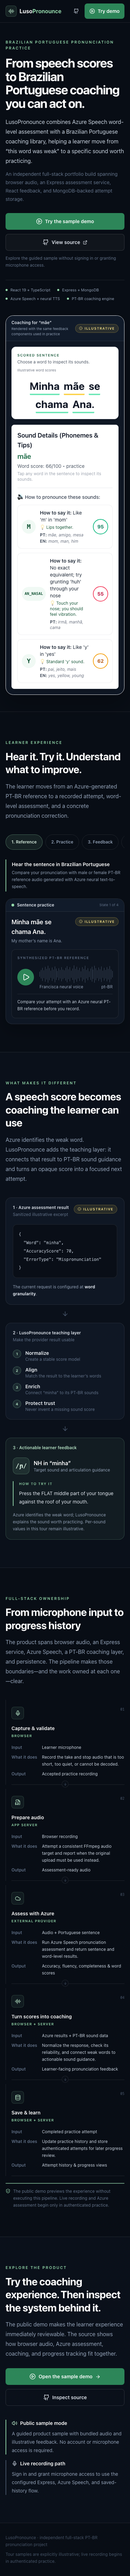
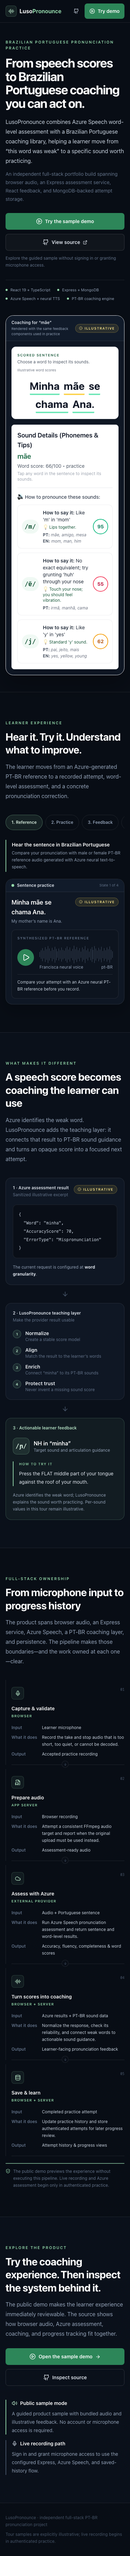
fix(feedback): show learner-facing IPA labels

Changed region(s): [[0.0293, 0.0, 0.9387, 0.9666]]

diff --git a/src/components/pronunciation/shared/PhonemePanel.tsx b/src/components/pronunciation/shared/PhonemePanel.tsx
@@ -1,5 +1,5 @@
 import type { NormalizedWordFeedback } from './types';
-import { getPhonemeById } from '@/lib/phonemeMetadata';
+import { getPhonemeById, getPhonemeDisplayLabel } from '@/lib/phonemeMetadata';
 import { findHomograph } from '@/lib/homographs';
 import type { TrustLevel } from '@/lib/assessmentTrust';
 
@@ -147,6 +147,7 @@ export default function PhonemePanel({ word, onClose, trustLevel = 'trusted' }: 
           <div className="space-y-3">
             {word.phonemes.map((phoneme, index) => {
               const metadata = getPhonemeById(phoneme.symbol);
+              const displayLabel = getPhonemeDisplayLabel(phoneme.symbol);
               
               if (metadata) {
                 const desc = metadata.englishApprox || metadata.articulation || '';
@@ -160,8 +161,8 @@ export default function PhonemePanel({ word, onClose, trustLevel = 'trusted' }: 
                     className="bg-white dark:bg-gray-800 rounded-xl p-3 sm:p-4 border border-gray-200/70 dark:border-gray-700 flex items-center gap-3 sm:gap-4"
                   >
                     <div className="shrink-0 min-w-10 h-10 sm:min-w-12 sm:h-12 px-2 rounded-full bg-primary-50 dark:bg-primary-900/30 flex items-center justify-center">
-                      <span className={`font-bold text-primary-700 dark:text-primary-300 font-mono whitespace-nowrap ${phoneme.symbol.length > 3 ? 'text-[11px] sm:text-xs' : 'text-lg'}`}>
-                        {phoneme.symbol}
+                      <span className={`font-bold text-primary-700 dark:text-primary-300 font-mono whitespace-nowrap ${displayLabel.length > 4 ? 'text-[11px] sm:text-xs' : 'text-lg'}`}>
+                        {displayLabel}
                       </span>
                     </div>
                     <div className="flex-1 min-w-0">
@@ -196,8 +197,8 @@ export default function PhonemePanel({ word, onClose, trustLevel = 'trusted' }: 
                     className="bg-white dark:bg-gray-800 rounded-xl p-3 sm:p-4 border border-gray-200/70 dark:border-gray-700 flex items-center gap-3 sm:gap-4"
                   >
                     <div className="shrink-0 min-w-10 h-10 sm:min-w-12 sm:h-12 px-2 rounded-full bg-primary-50 dark:bg-primary-900/30 flex items-center justify-center">
-                      <span className={`font-bold text-primary-700 dark:text-primary-300 font-mono whitespace-nowrap ${phoneme.symbol.length > 3 ? 'text-[11px] sm:text-xs' : 'text-lg'}`}>
-                        {phoneme.symbol}
+                      <span className={`font-bold text-primary-700 dark:text-primary-300 font-mono whitespace-nowrap ${displayLabel.length > 4 ? 'text-[11px] sm:text-xs' : 'text-lg'}`}>
+                        {displayLabel}
                       </span>
                     </div>
                     <div className="flex-1 min-w-0">

diff --git a/src/test/phonemeMetadata.test.ts b/src/test/phonemeMetadata.test.ts
@@ -1,5 +1,10 @@
 import { describe, it, expect } from 'vitest';
-import { getPhonemeById, getAllPhonemes, getPhonemeMetadata } from '@/lib/phonemeMetadata';
+import {
+  getAllPhonemes,
+  getPhonemeById,
+  getPhonemeDisplayLabel,
+  getPhonemeMetadata,
+} from '@/lib/phonemeMetadata';
 
 describe('PhonemeMetadata', () => {
   describe('getPhonemeById', () => {
@@ -88,6 +93,17 @@ describe('PhonemeMetadata', () => {
       const byId = getPhonemeById('AA');
       const byMetadata = getPhonemeMetadata('AA');
       expect(byMetadata).toEqual(byId);
+    });
+  });
+
+  describe('getPhonemeDisplayLabel', () => {
+    it('uses IPA instead of exposing internal phoneme IDs', () => {
+      expect(getPhonemeDisplayLabel('AN_NASAL')).toBe('/ɐ̃/');
+      expect(getPhonemeDisplayLabel('NH')).toBe('/ɲ/');
+    });
+
+    it('preserves an unknown provider symbol as a fallback', () => {
+      expect(getPhonemeDisplayLabel('UNKNOWN_SYMBOL')).toBe('UNKNOWN_SYMBOL');
     });
   });
 

diff --git a/src/components/pronunciation/shared/FocusAreasCard.tsx b/src/components/pronunciation/shared/FocusAreasCard.tsx
@@ -1,6 +1,6 @@
 import { Target } from 'lucide-react';
 import type { NormalizedWordFeedback } from './types';
-import { getPhonemeById } from '@/lib/phonemeMetadata';
+import { getPhonemeById, getPhonemeDisplayLabel } from '@/lib/phonemeMetadata';
 
 interface FocusAreasCardProps {
   words: NormalizedWordFeedback[];
@@ -71,7 +71,7 @@ export default function FocusAreasCard({ words }: FocusAreasCardProps) {
             <span className="text-primary-500 dark:text-primary-400 shrink-0">•</span>
             <span>
               <strong className="font-mono font-semibold text-gray-900 dark:text-gray-100">
-                {p.symbol}:
+                {getPhonemeDisplayLabel(p.symbol)}:
               </strong>{' '}
               {p.tip}
             </span>

diff --git a/src/lib/phonemeMetadata.ts b/src/lib/phonemeMetadata.ts
@@ -113,6 +113,16 @@ export function getPhonemeById(id: string): PhonemeMeta | undefined {
 }
 
 /**
+ * Returns a learner-facing phoneme label without exposing internal dataset IDs.
+ * Known phonemes use slash-delimited IPA; unknown provider symbols remain visible
+ * as a safe fallback rather than disappearing from the feedback UI.
+ */
+export function getPhonemeDisplayLabel(id: string): string {
+  const metadata = getPhonemeById(id);
+  return metadata?.ipa ? `/${metadata.ipa}/` : id.trim();
+}
+
+/**
  * Gets all available phoneme metadata entries.
  * 
  * @returns Array of all phoneme metadata entries, sorted by ID

diff --git a/src/pages/tour/TourVisuals.test.tsx b/src/pages/tour/TourVisuals.test.tsx
@@ -17,6 +17,8 @@ describe('tour evidence visuals', () => {
     expect(screen.getAllByText(/^illustrative$/i).length).toBeGreaterThan(0);
     expect(screen.getByText(/word score: 66\/100/i)).toBeInTheDocument();
     expect(screen.getByText(/touch your nose; you should feel vibration/i)).toBeInTheDocument();
+    expect(screen.getByText('/ɐ̃/')).toBeInTheDocument();
+    expect(screen.queryByText('AN_NASAL')).not.toBeInTheDocument();
 
     fireEvent.click(screen.getByRole('button', { name: 'Minha' }));
 
